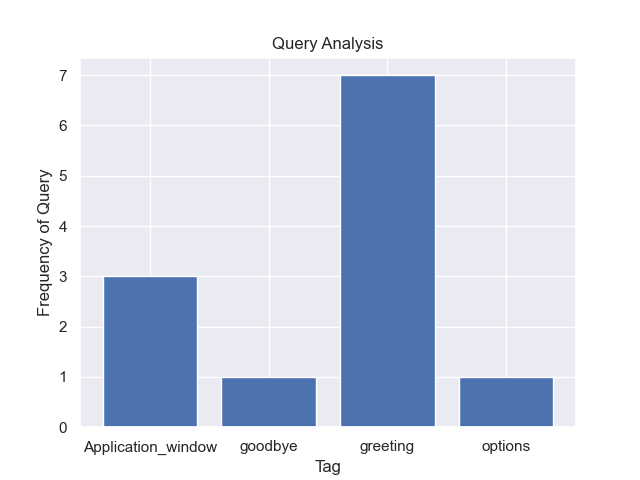
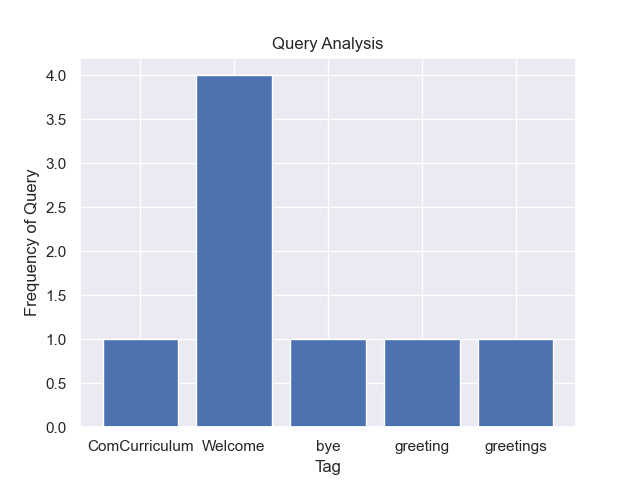
convert storage from csv to db

diff --git a/Bot.py b/Bot.py
@@ -5,18 +5,9 @@ import nltk
 from nltk.stem.lancaster import LancasterStemmer
 import json
 import csv
-import numpy as np
-import pandas as pd
-import random
-from datetime import date
-import matplotlib.pyplot as plt
-import seaborn as sns
 
-import smtplib
-from email.mime.multipart import MIMEMultipart
-from email.mime.text import MIMEText
-from email.mime.base import MIMEBase
-from email import encoders
+import random
+from DataManager import DataManager
 
 class Bot():
     def __init__(self):
@@ -29,6 +20,7 @@ class Bot():
         self.context = None
         self.settingContext = False
         self.previous = None
+        self.dataManager = DataManager()
 
     def bow(self, inpt):
         # tokenize the pattern
@@ -64,7 +56,6 @@ class Bot():
                     return False
         return True
             
-
     def respond(self, inpt):
         if self.settingContext and self.previous and self.context == None:
             return self.contextualize(inpt)
@@ -81,16 +72,16 @@ class Bot():
                 
                 if 'context_set' in i:
                     self.context = i['context_set']
-                    self.store(inpt, results[0])
+                    self.dataManager.store(inpt, results[0])
                     return (random.choice(i['responses']))
 
                 elif not 'context_cond' in i:
-                    self.store(inpt, results[0])
+                    self.dataManager.store(inpt, results[0])
                     return (random.choice(i['responses']))
                 
                 elif ('context_cond' in i and i['context_cond'][0] == self.context):
                     self.previous = None
-                    self.store(inpt, results[0])
+                    self.dataManager.store(inpt, results[0])
                     return (random.choice(i['responses']))
 
     def classify(self, inpt):
@@ -102,56 +93,6 @@ class Bot():
             lst.append((self.classes[r[0]], r[1]))
         return lst[0]
 
-    def store(self, inpt, tag):
-        row = {
-                "Date": date.today(),
-                "Query": inpt,
-                "Tag": tag,
-                "Relevant": True
-            }
-        try:
-            with open('data/data.csv', 'a') as file:
-                csv.writer(file).writerow(list(row.values()))
-        except:
-            df = pd.DataFrame(row, index=[0])
-            df.to_csv('data/data.csv', index=False)
-
     def sendEmail(self):
-        FROM = "wtvdummyacc@gmail.com"
         TO = input("Please enter your email: ")
-        self.analyze()
-        
-        data = MIMEMultipart()
-        data['From'] = FROM
-        data['To'] = TO
-        data['Subject'] = "Query Analysis"
-        body = f"Query Analysis as of {date.today()}"
-
-        data.attach(MIMEText(body, 'plain'))
-        filename = "fig.png"
-        attachment = open("data/fig.png", "rb")
-
-        p = MIMEBase('application', 'octet-stream')
-        p.set_payload((attachment).read())
-        encoders.encode_base64(p)
-        p.add_header('Content-Disposition', "attachment; filename= %s" % filename)
-        data.attach(p)
-
-        s = smtplib.SMTP('smtp.gmail.com', 587)
-        s.starttls()
-        s.login(FROM, "Dummy2020")
-        s.sendmail(FROM, TO, data.as_string())
-        s.quit()
- 
-    def analyze(self):
-        df = pd.read_csv('data/data.csv')
-        df_tag = df[["Tag", "Query"]] \
-            .groupby('Tag') \
-            .count() \
-            .head(10)
-        sns.set()
-        plt.bar(x=df_tag.index, height=df_tag.Query)
-        plt.xlabel('Tag')
-        plt.ylabel('Frequency of Query')
-        plt.title('Query Analysis')
-        plt.savefig('data/fig.png')
+        self.dataManager.sendEmail(TO)

diff --git a/DataManager.py b/DataManager.py
@@ -1,0 +1,98 @@
+from datetime import date
+import matplotlib.pyplot as plt
+import seaborn as sn
+import psycopg2
+
+import pandas as pd
+import smtplib
+from email.mime.multipart import MIMEMultipart
+from email.mime.text import MIMEText
+from email.mime.base import MIMEBase
+from email import encoders
+
+connection = psycopg2.connect(
+    user="fmxuapnxvhmaid",
[1 lines of base64/hex data omitted]
+    host="ec2-3-231-16-122.compute-1.amazonaws.com",
+    port="5432",
+    database="dd2192jcv4qfvc"
+)
+
+insert_query = '''
+            INSERT INTO Queries (date, query, tag, relevant)
+            VALUES (%s, %s, %s, %s)
+            '''
+
+class DataManager():
+    def __init__(self):
+        self.cursor = connection.cursor()
+
+    def store(self, inpt, tag, relevance=True):
+        self.cursor.execute(insert_query, 
+            (
+                date.today(),
+                inpt,
+                tag,
+                relevance
+            )
+        )
+        connection.commit()
+
+    def viewTable(self):
+        self.cursor.execute(
+            '''
+            SELECT * FROM Queries
+            '''
+        )
+
+        records = self.cursor.fetchall()
+        for row in records:
+            print(row, '\n')
+
+    def sendEmail(self, TO):
+        FROM = "wtvdummyacc@gmail.com"
+        self.analyze()
+        
+        data = MIMEMultipart()
+        data['From'] = FROM
+        data['To'] = TO
+        data['Subject'] = "Query Analysis"
+        body = f"Query Analysis as of {date.today()}"
+
+        data.attach(MIMEText(body, 'plain'))
+        filename = "fig.png"
+        attachment = open("data/fig.png", "rb")
+
+        p = MIMEBase('application', 'octet-stream')
+        p.set_payload((attachment).read())
+        encoders.encode_base64(p)
+        p.add_header('Content-Disposition', "attachment; filename= %s" % filename)
+        data.attach(p)
+
+        s = smtplib.SMTP('smtp.gmail.com', 587)
+        s.starttls()
+        s.login(FROM, "Dummy2020")
+        s.sendmail(FROM, TO, data.as_string())
+        s.quit()
+ 
+    def analyze(self):
+        self.cursor.execute(
+            '''
+            SELECT * FROM Queries
+            '''
+        )
+
+        df = pd.DataFrame(self.cursor.fetchall(), 
+            columns=['Date', 'Query', 'Tag', 'Relevance']
+            )
+
+        df_tag = df[["Tag", "Query"]] \
+            .groupby('Tag') \
+            .count() \
+            .head(10)
+        sns.set()
+        plt.bar(x=df_tag.index, height=df_tag.Query)
+        plt.xlabel('Tag')
+        plt.ylabel('Frequency of Query')
+        plt.title('Query Analysis')
+        plt.savefig('data/fig.png')
